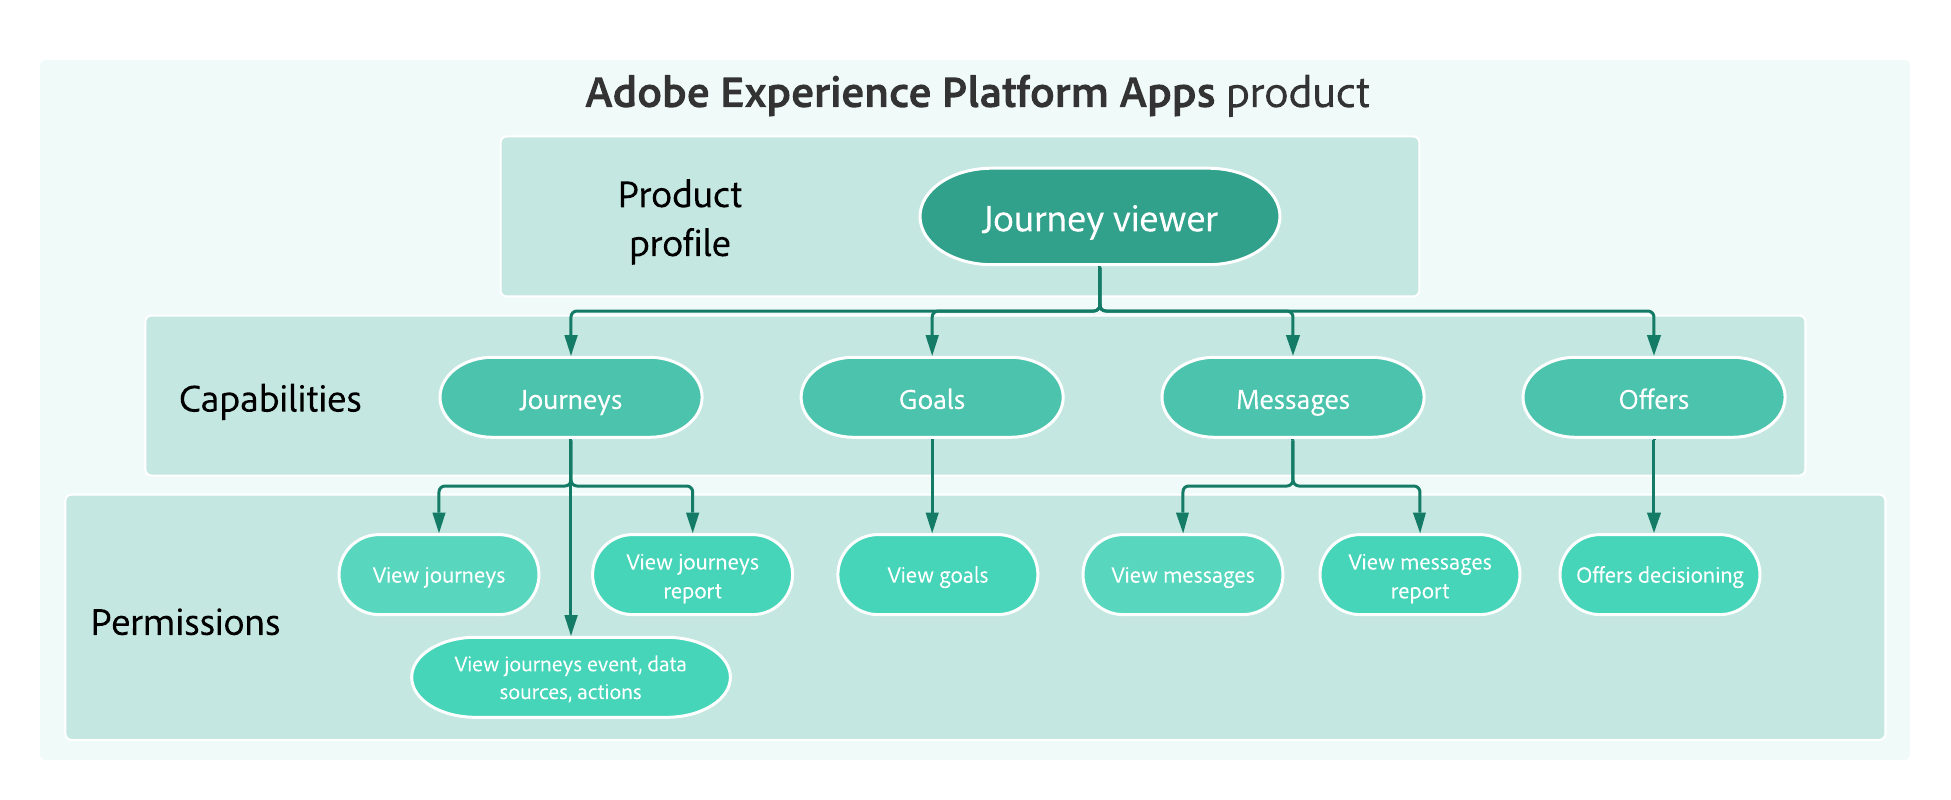
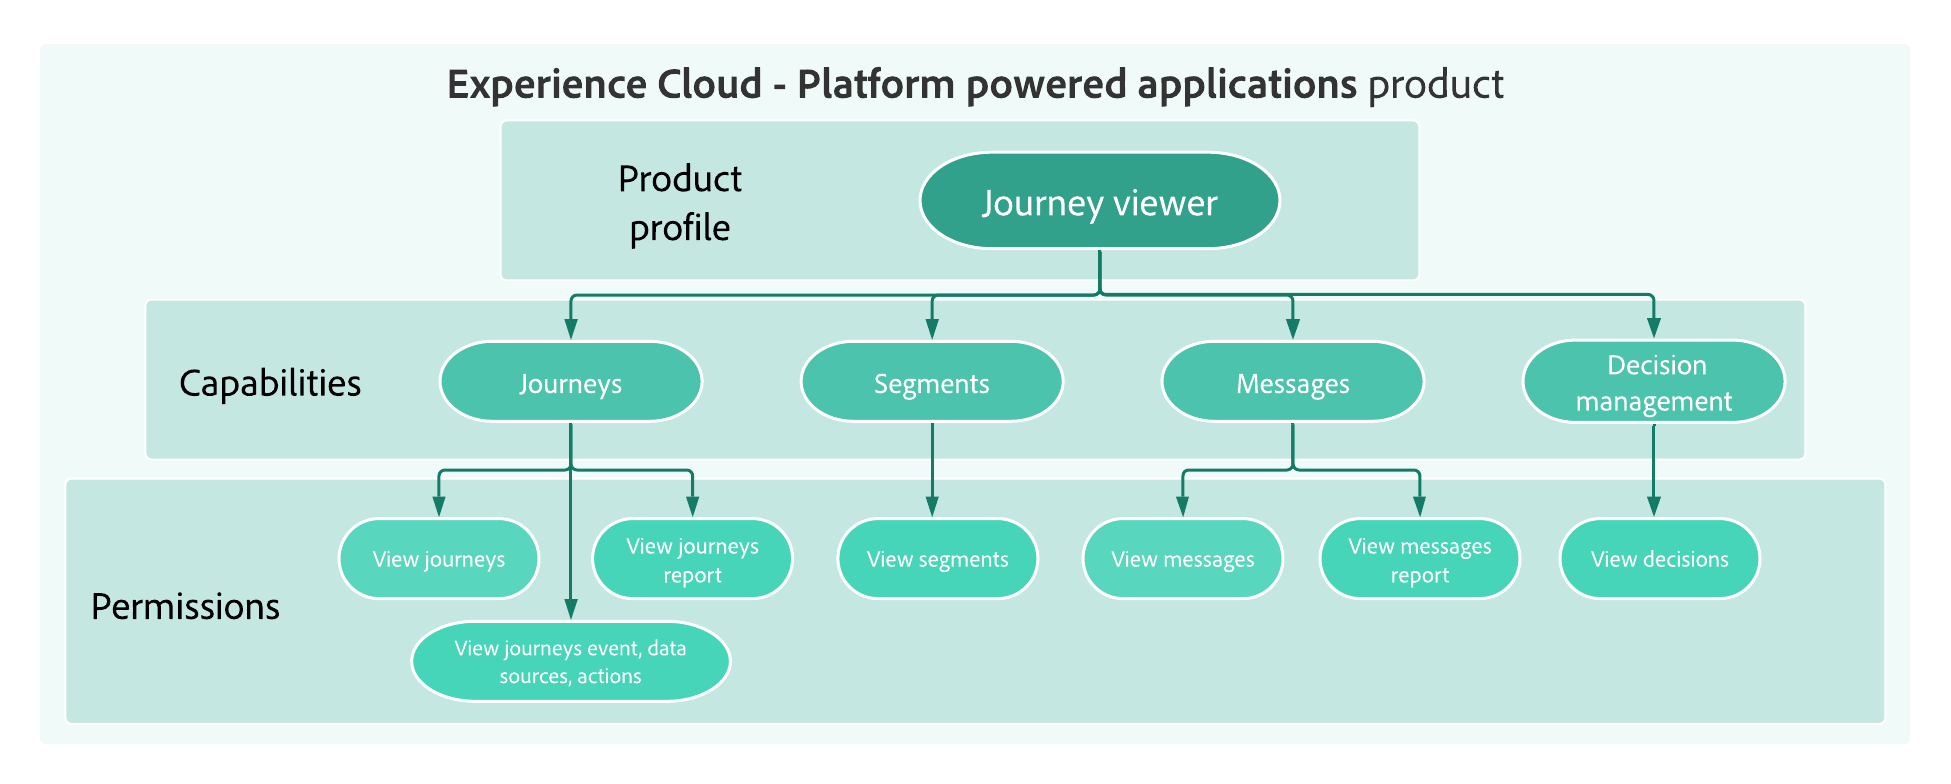
Review feedbacks

diff --git a/help/using/administration/permissions.md b/help/using/administration/permissions.md
@@ -29,6 +29,60 @@ Each user belonging to a **[!UICONTROL Product profiles]** is entitled with the 
 
 You can also create your own **[!UICONTROL Product profiles]** if you want to fine-tune your users' access to certain functionalities or objects in the interface.
  
+## Assigning a product profile {#assigning-product-profile}
+
+You can choose to assign an out-of-the-box or custom **[!UICONTROL Product profile]** to your users.
+
+The list of every out-of-the-box product profiles with assigned permissions can be found in the [Built-in product profiles](ootb-product-profiles.md) section.
+
+To assign a **[!UICONTROL Product profile]**:
+
+1. In the [!DNL Admin Console], from the **[!UICONTROL Products]** tab, select the **[!UICONTROL Experience Cloud - Platform powered applications]** product.
+
+1. Select a **[!UICONTROL Product profile]**.
+
+1. From the **[!UICONTROL Users]** tab, click **[!UICONTROL Add user]**.
+
+1. Type in your user's name or email address and select the user.
+
+   If the user was not previously created in the [!DNL Admin Console], refer to the [Add users documentation](https://helpx.adobe.com/enterprise/admin-guide.html/enterprise/using/manage-users-individually.ug.html#add-users).
+
+1. Carry out the same steps as above to add other users to your **[!UICONTROL Product profile]**. Then, click **[!UICONTROL Save]**.
+
+Your user should then receive an email redirecting to your instance.
+
+For more information on users management, refer to the [Admin Console documentation](https://helpx.adobe.com/enterprise/admin-guide.html/enterprise/using/manage-users-individually.ug.html).
+
+When accessing the instance, your user will see a specific view depending on the assigned permissions in the **[!UICONTROL Product profile]**. If the user does not have the right access to a feature, the following screen will appear.
+
+## Editing an existing product profile {#edit-product-profile}
+
+For out-of-the-box or custom **[!UICONTROL Product profiles]**, you can decide at any time to add or delete permissions.
+
+In this example, we want to add **[!UICONTROL Permissions]** related to the **[!UICONTROL Message]** capability for users assigned to the Journey viewer **[!UICONTROL Product profile]**. The users will then be able to publish messages.
+
+Note that if you modify an out-of-the-box or custom **[!UICONTROL Product profile]**, it will impact every user assigned to this **[!UICONTROL Product profile]**.
+
+1. In the [!DNL Admin Console], from the **[!UICONTROL Products]** tab, select the **[!UICONTROL Experience Cloud - Platform powered applications]** product.
+
+1. Select your previously configured Journey Read-only **[!UICONTROL Product profile]**.
+
+1. Select the **[!UICONTROL Permissions]** tab.
+
+    The **[!UICONTROL Permissions]** tab displays the list of capabilities that apply to the ***[!UICONTROL Experience Cloud - Platform powered applications]** product.
+
+1. Select the **[!UICONTROL Messages]** capability.
+
+1. From the **[!UICONTROL Available Permission Items]** list, select the permissions to assign to your **[!UICONTROL Product profile]** by clicking the plus (+) icon. 
+
+    Here, we add the **[!UICONTROL Publish messages]** permission.
+
+1. If needed, under **[!UICONTROL Included Permission Items]**, click the X icon next to remove permissions to your product profile.
+
+1. When finished, click **[!UICONTROL Save]**.
+
+If needed, you can also create new product profile with specific permissions. For more on this, refer to [Creating a product profile](#create-product-profile).
+
 ## Creating a product profile {#create-product-profile}
 
 [!DNL Journey Optimizer] allows you to create your own **[!UICONTROL Product profiles]** and assign a set of permissions and sandboxes to your users. With **[!UICONTROL Product profiles]**, you can authorize or deny access to certain functionalities or objects in the interface.
@@ -41,7 +95,7 @@ To create our **Journeys read-only** **[!UICONTROL product profiles]**:
 
 1. Access the [!DNL Admin Console].
 
-1. From the **[!UICONTROL Products]** tab, select the **[!UICONTROL Adobe Experience Platform Apps]** product.
+1. From the **[!UICONTROL Products]** tab, select the **[!UICONTROL Experience Cloud - Platform powered applications]** product.
 
 1. Click **[!UICONTROL New Profile]**.
 
@@ -68,53 +122,3 @@ To create our **Journeys read-only** **[!UICONTROL product profiles]**:
 Your **[!UICONTROL Product profile]** is now created and configured. You now need to assign it to users.
 
 For more information on product profile creation and management, refer to the [Admin Console documentation](https://helpx.adobe.com/enterprise/admin-guide.html/enterprise/using/manage-product-profiles.ug.html).
-
-## Assigning a product profile {#assigning-product-profile}
-
-You can choose to assign an out-of-the-box or custom **[!UICONTROL Product profile]** to your users.
-
-The list of every out-of-the-box product profiles with assigned permissions can be found in the [Built-in product profiles](ootb-product-profiles.md) section.
-
-To assign your previously created and configured Journey Read-only **[!UICONTROL Product profile]**:
-
-1. In the [!DNL Admin Console], from the **[!UICONTROL Products]** tab, select the **[!UICONTROL Adobe Experience Platform Apps]** product.
-
-1. Select a **[!UICONTROL Product profile]**, here, our previously configured Journey Read-only.
-
-1. From the **[!UICONTROL Users]** tab, click **[!UICONTROL Add user]**.
-
-1. Type in your user's name or email address and select the user.
-
-   If the user was not previously created in the [!DNL Admin Console], refer to the [Add users documentation](https://helpx.adobe.com/enterprise/admin-guide.html/enterprise/using/manage-users-individually.ug.html#add-users).
-
-1. Carry out the same steps as above to add other users to your **[!UICONTROL Product profile]**. Then, click **[!UICONTROL Save]**.
-
-Your user should then receive an email redirecting to your instance.
-
-For more information on users management, refer to the [Admin Console documentation](https://helpx.adobe.com/enterprise/admin-guide.html/enterprise/using/manage-users-individually.ug.html).
-
-When accessing the instance, your user will see a specific view depending on the assigned permissions in the **[!UICONTROL Product profile]**. If the user does not have the right access to a feature, the following screen will appear.
-
-## Editing an existing product profile {#edit-product-profile}
-
-For out-of-the-box or custom **[!UICONTROL Product profiles]**, you can decide at any time to add or delete permissions.
-
-In this example, we want to add **[!UICONTROL Permissions]** related to the **[!UICONTROL Message]** capability for users assigned to our previously created Journey Read-only **[!UICONTROL Product profile]**. The users will then be able to access the **[!UICONTROL Message]** menu in [!DNL Journey Optimizer] and view messages.
-
-Note that if you modify an out-of-the-box or custom **[!UICONTROL Product profile]**, it will impact every user assigned to this **[!UICONTROL Product profile]**.
-
-1. In the [!DNL Admin Console], from the **[!UICONTROL Products]** tab, select the **[!UICONTROL Adobe Experience Platform Apps]** product.
-
-1. Select your previously configured Journey Read-only **[!UICONTROL Product profile]**.
-
-1. Select the **[!UICONTROL Permissions]** tab.
-
-    The **[!UICONTROL Permissions]** tab displays the list of capabilities that apply to the **[!UICONTROL Adobe Experience Platform Apps]** product.
-
-1. Select the **[!UICONTROL Messages]** capability.
-
-1. From the **[!UICONTROL Available Permission Items]** list, select the permissions to assign to your **[!UICONTROL Product profile]** by clicking the plus (+) icon.
-
-1. If needed, under **[!UICONTROL Included Permission Items]**, click the X icon next to remove permissions to your product profile.
-
-1. When finished, click **[!UICONTROL Save]**.

diff --git a/help/TOC.md b/help/TOC.md
@@ -201,7 +201,7 @@ hide: yes
   + [Technical settings](using/administration/administration.md)
   + Access control {#access-control}
     + [Access control overview](using/administration/permissions-overview.md)
-    + [Manage users and product profiles](using/administration/permissions.md)
     + [Built-in product profiles](using/administration/ootb-product-profiles.md)
+    + [Manage users and product profiles](using/administration/permissions.md)
     + [Permission levels](using/administration/high-low-permissions.md)
     + [Sandboxes management](using/administration/sandboxes.md)
